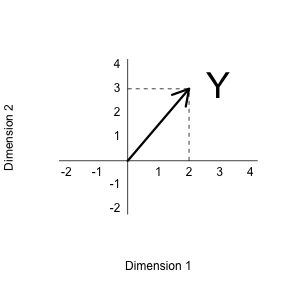
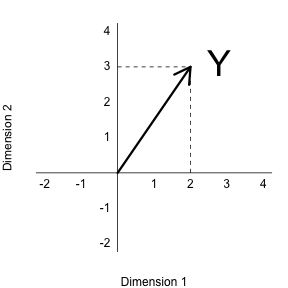
adding rotations to book

diff --git a/manuscript/rotations.md b/manuscript/rotations.md
@@ -12,10 +12,10 @@ One of the most useful applications of projections relates to coordinate rotatio
  
 In our previous section we used the following example: 
 {$$}
-\begin{aligned}
+\begin{align*}
 Y &= \begin{pmatrix} 2 \\ 3\end{pmatrix} \\
 &=2  \begin{pmatrix} 1\\ 0\end{pmatrix} + 3 \begin{pmatrix} 0\\ 1\end{pmatrix} 
-\end{aligned}{/$$}
+\end{align*}{/$$}
 
 and noted that {$$}2{/$$} and {$$}3{/$$} are the _coordinates_
 
@@ -23,14 +23,7 @@ and noted that {$$}2{/$$} and {$$}3{/$$} are the _coordinates_
 
 ```r
 library(rafalib)
-mypar2(1,1)
-```
-
-```
-## Error in eval(expr, envir, enclos): could not find function "mypar2"
-```
-
-```r
+mypar()
 plot(c(-2,4),c(-2,4),xlab="Dimension 1",ylab="Dimension 2",type="n",xaxt="n",yaxt="n",bty="n")
 text(rep(0,6),c(c(-2,-1),c(1:4)),as.character(c(c(-2,-1),c(1:4))),pos=2)
 text(c(c(-2,-1),c(1:4)),rep(0,6),as.character(c(c(-2,-1),c(1:4))),pos=1)
@@ -46,10 +39,10 @@ text(2,3," Y",pos=4,cex=3)
 But note that, mathematically, we can represent the point {$$}(2,3){/$$} with other linear combinations:
 
 {$$}
-\begin{aligned}
+\begin{align*}
 Y &= \begin{pmatrix} 2 \\ 3\end{pmatrix} \\
 &= 2.5 \begin{pmatrix} 1\\ 1\end{pmatrix} + -1 \begin{pmatrix} \phantom{-}0.5\\ -0.5\end{pmatrix} 
-\end{aligned}{/$$}
+\end{align*}{/$$}
 
 The new coordinates are:
 
@@ -60,14 +53,7 @@ Graphically we can see that the coordinates are the projections to the spaces de
 
 ```r
 library(rafalib)
-mypar2(1,1)
-```
-
-```
-## Error in eval(expr, envir, enclos): could not find function "mypar2"
-```
-
-```r
+mypar()
 plot(c(-2,4),c(-2,4),xlab="Dimension 1",ylab="Dimension 2",type="n",xaxt="n",yaxt="n",bty="n")
 text(rep(0,6),c(c(-2,-1),c(1:4)),as.character(c(c(-2,-1),c(1:4))),pos=2)
 text(c(c(-2,-1),c(1:4)),rep(0,6),as.character(c(c(-2,-1),c(1:4))),pos=1)
